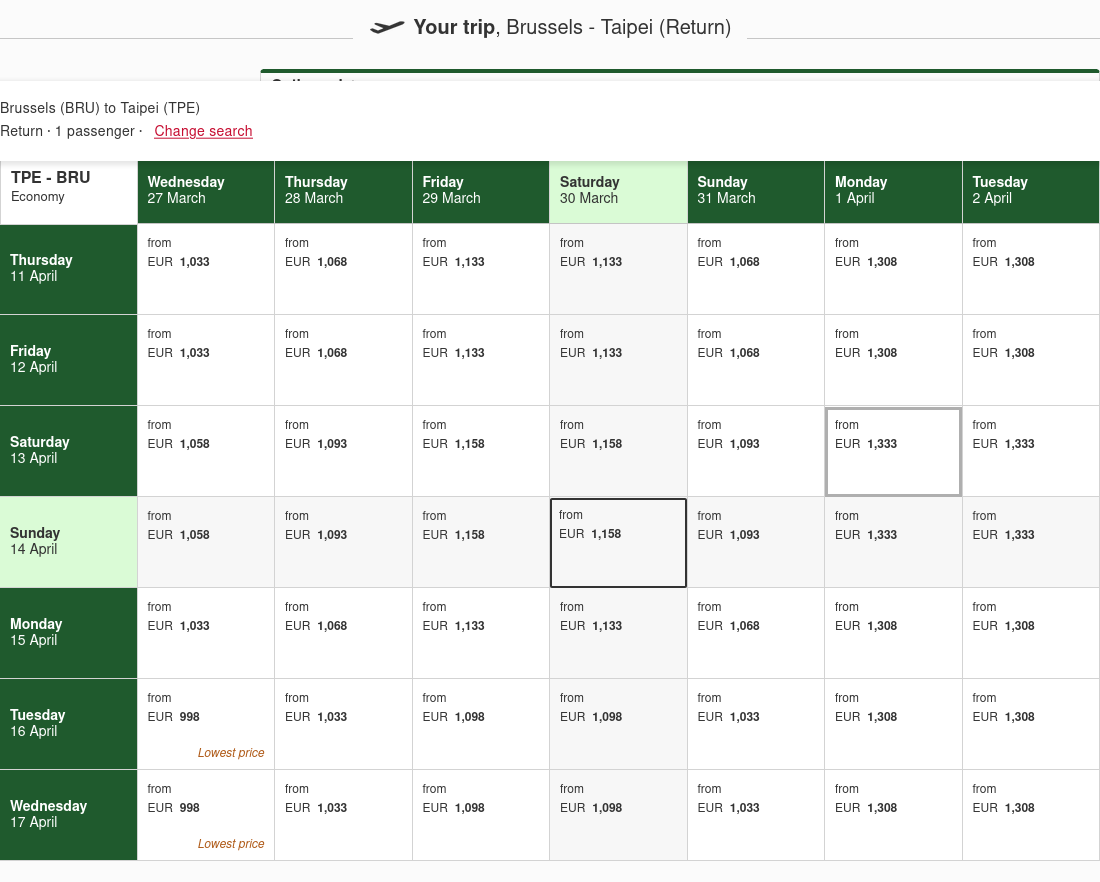
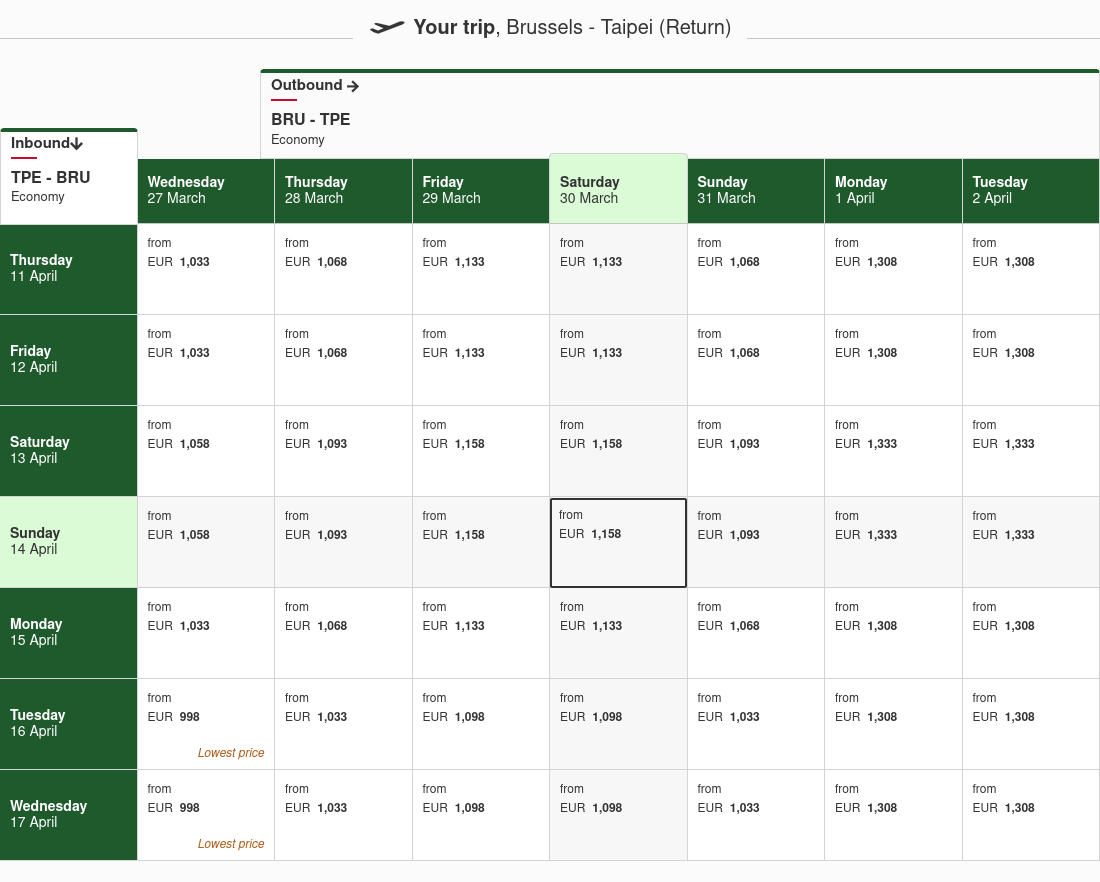
setting BRU as departure for emirates

Changed region(s): [[0.0, 0.0918, 1.0, 0.1837], [0.7418, 0.4592, 0.8964, 0.4898], [0.7418, 0.551, 0.8655, 0.5816]]

diff --git a/tests/taiwan.spec.ts b/tests/taiwan.spec.ts
@@ -1,6 +1,5 @@
 import { test, expect } from '@playwright/test';
 import { removeDirectory } from './fs-utils';
-import { createMarkdown } from './md-utils';
 
 const scrapesDirectory: string = './scrapes/taiwan'
 
@@ -53,5 +52,9 @@ test('emirates', async ({ page }) => {
     await page.getByRole('cell', { name: '14 Apr 24' }).getByText('14').click();
     await page.getByRole('button', { name: 'Search flights' }).click();
 
-    await page.getByText('Your trip, Brussels - Taipei (Return) Outbound BRU - TPE Economy Outbound Brusse').screenshot({ path: `${scrapesDirectory}/emirates.png` });
+    const gridResultPage = page.getByText('Your trip, Brussels - Taipei (Return) Outbound BRU - TPE Economy Outbound Brusse');
+
+    await expect(gridResultPage).toBeVisible({timeout: 30000});
+
+    await gridResultPage.screenshot({ path: `${scrapesDirectory}/emirates.png` });
 });
